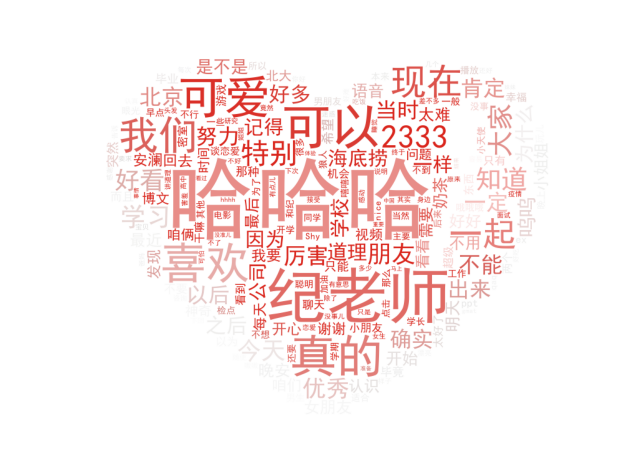
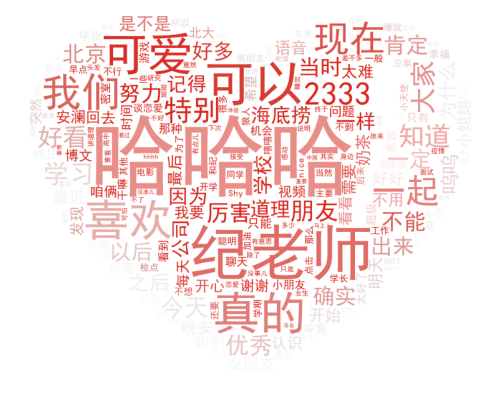
666

Changed region(s): [[0.0605, 0.0303, 0.9375, 0.9091]]

diff --git a/index.html b/index.html
@@ -77,7 +77,7 @@
     }))
     $("#clock-box-inside-text").html(`${config.names[0]}<span class="STYLE1">与</span> ${config.names[1]}<span class="STYLE1">在一起的</span>`)
 </script>
-<img src="wordcloud.png" style="position: absolute;left: 300px;top:800px;" width="600" height="450">
+<img src="wordcloud.png" style="position: absolute;left: 100px;top:450px;" width="300" height="240">
 
 <script>
     (function () {
